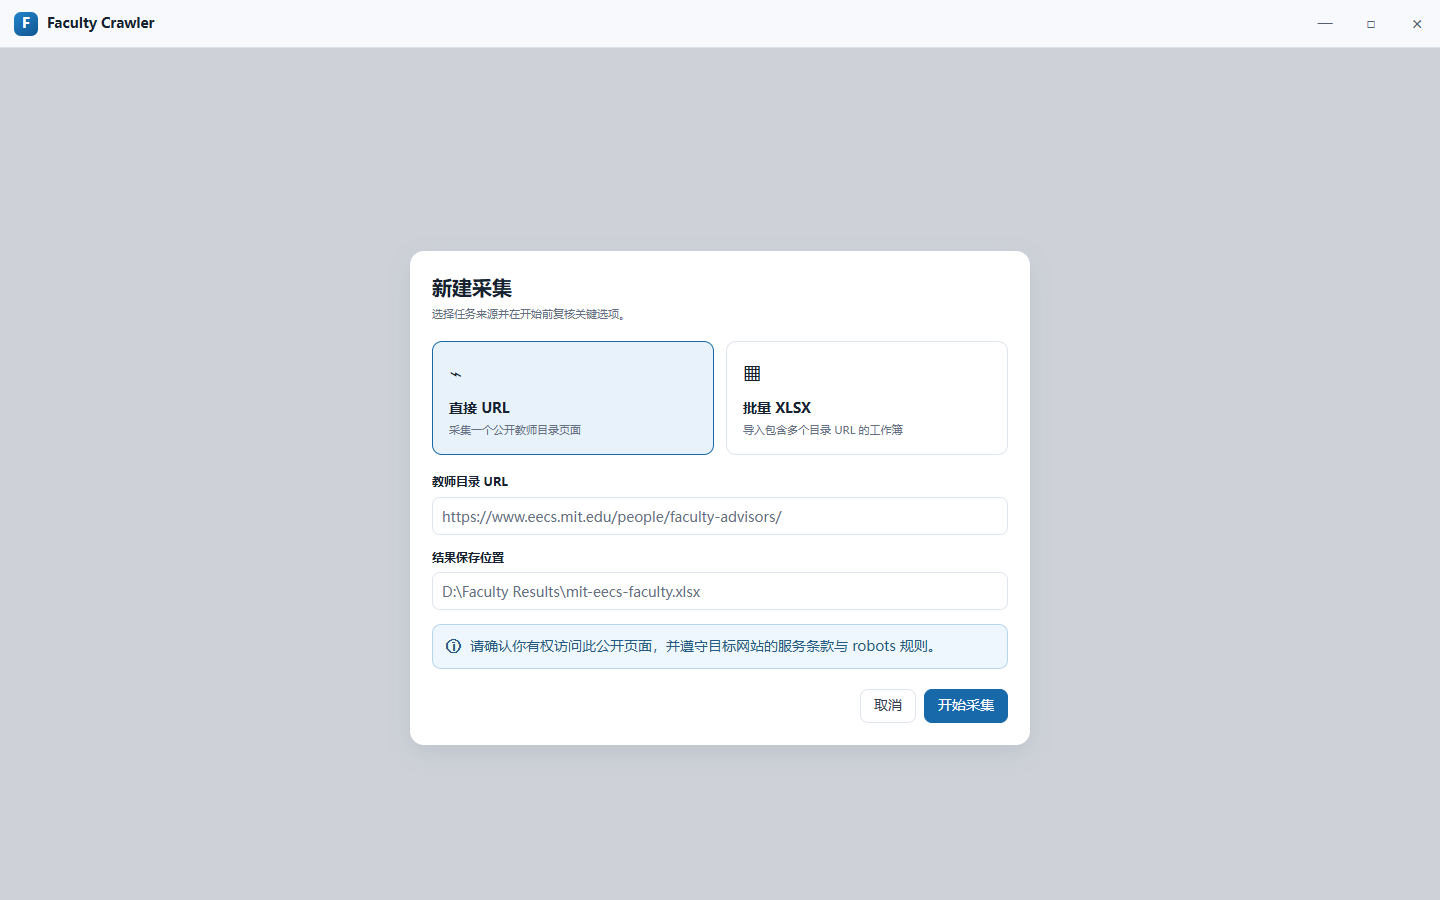
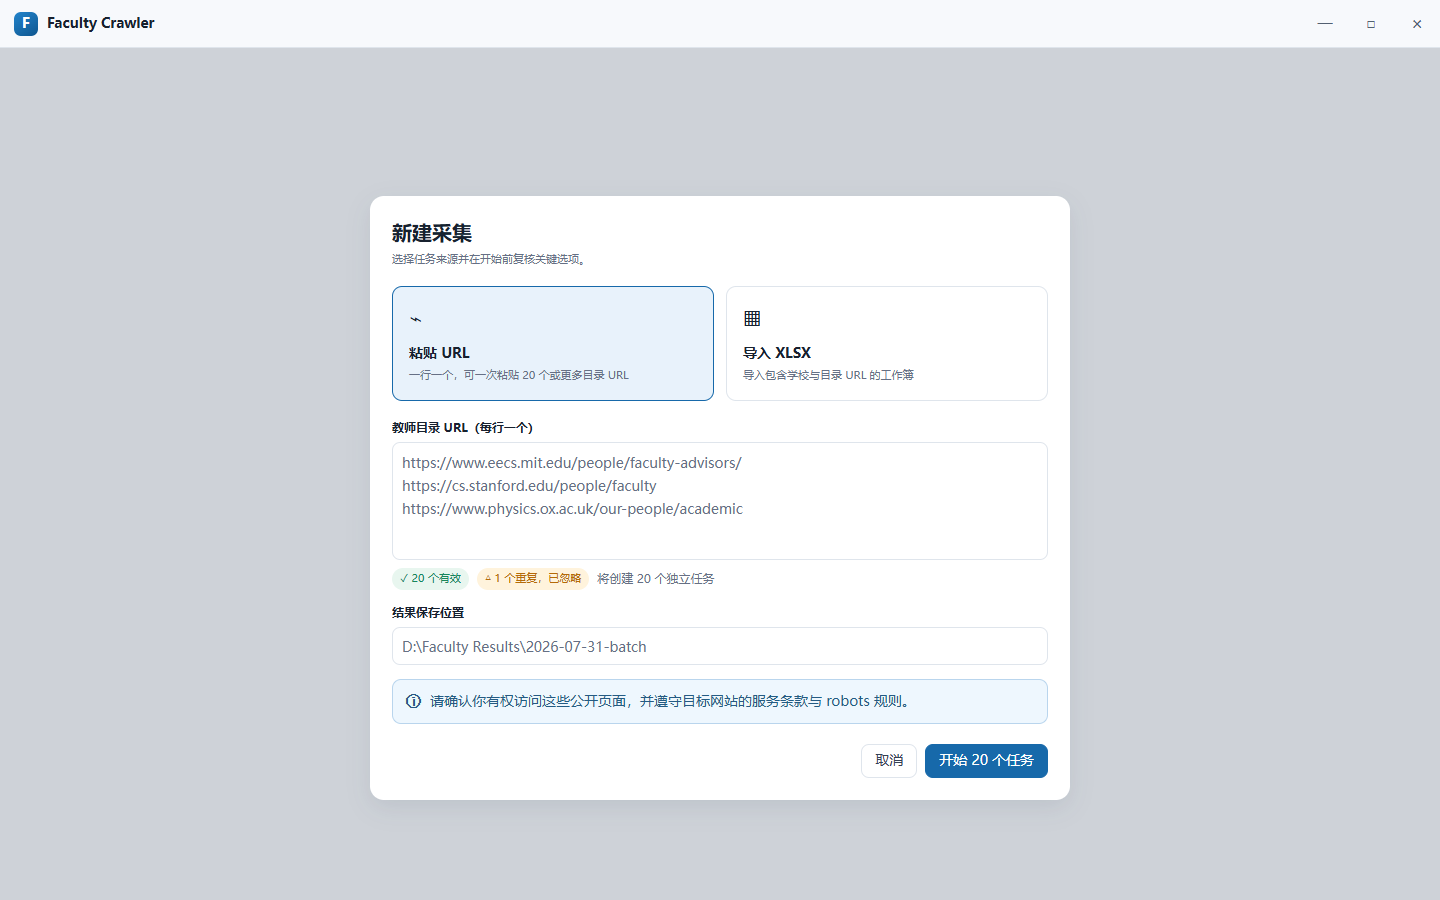
docs: add AI usage and bulk URL designs

Changed region(s): [[0.25, 0.2178, 0.75, 0.9022]]

diff --git a/docs/superpowers/specs/2026-07-31-modern-scientific-utility-ui-design.md b/docs/superpowers/specs/2026-07-31-modern-scientific-utility-ui-design.md
@@ -59,13 +59,19 @@
 
 设置内部使用 220 px 分类导航。页面顶部搜索可定位设置项。每个分组由标题和设置行组成；行内控件右对齐。高级设置默认折叠，但搜索命中时自动展开并聚焦。
 
+“翻译与 AI”必须作为独立设置分组，包含外部 AI 总开关、服务商、Base URL、模型、API Key 状态、替换、删除和测试连接。API Key 保存后不得再次显示明文；界面只显示“已配置/未配置”和可选的末四位提示。Windows 安装版继续使用 DPAPI 加密，配置文件不得包含明文密钥。
+
+同一页面显示本月调用次数、成功/失败次数、输入 Token、输出 Token 和本地预计费用，并明确实际费用以服务商账单为准。用户可以进入按任务分组的用量明细，查看调用时间、操作、模型、Token 和预计费用。默认任务预算可配置；达到 80% 时警告，达到上限后停止新的模型调用，但不得中断本地规则和已完成结果导出。
+
 ### 4.7 存储与诊断
 
 容量展示只使用单条分段使用条，显示页面快照、翻译缓存、日志和其他数据。清理操作逐类提供，并明确可否重新生成。清除内部数据必须确认。诊断说明必须列出被包含和明确排除的数据类型。
 
 ### 4.8 新建采集对话框
 
-对话框先选择“直接 URL”或“批量 XLSX”，随后只显示对应字段。开始前显示访问合规提示、输出位置和关键运行选项。主要按钮为“开始采集”，取消为次要按钮。
+对话框先选择“粘贴 URL”或“导入 XLSX”，随后只显示对应字段。“粘贴 URL”使用带行号的多行输入区，按“一行一个 URL”解析，支持一次粘贴 20 个或更多 URL；产品不设置人为数量上限，实际运行仍遵守顺序执行、超时和资源限制。
+
+输入时即时显示有效、重复和无效数量。重复 URL 自动忽略但保留可查看提示；无效行标出行号并阻止启动。确认区域明确将创建的独立任务数量、批次输出目录和命名策略，主按钮随数量显示“开始 N 个任务”。开始前显示访问合规提示、输出位置和关键运行选项，取消为次要按钮。
 
 ## 5. 完整设计令牌
 
@@ -221,7 +227,7 @@
 
 可浏览 mockup：`docs/design/faculty-crawler-ui-mockups.html`。
 
-应渲染以下 8 个 1440 × 900 页面状态：
+应渲染以下 9 个 1440 × 900 页面状态：
 
 1. 概览
 2. 任务 + 右侧检查器
@@ -229,8 +235,8 @@
 4. 运行记录
 5. 站点会话
 6. 常规设置
-7. 存储与诊断
-8. 新建采集对话框
+7. 翻译与 AI（密钥状态与用量）
+8. 存储与诊断
+9. 新建采集对话框（20 个 URL 批量粘贴）
 
 验收标准：视觉与本规范一致；中文文字无乱码；1440 × 900 无裁切；状态不只依靠颜色；主要操作层级明确；不出现本项目范围外的项目管理、团队共享或 CAPTCHA 绕过功能。
-
